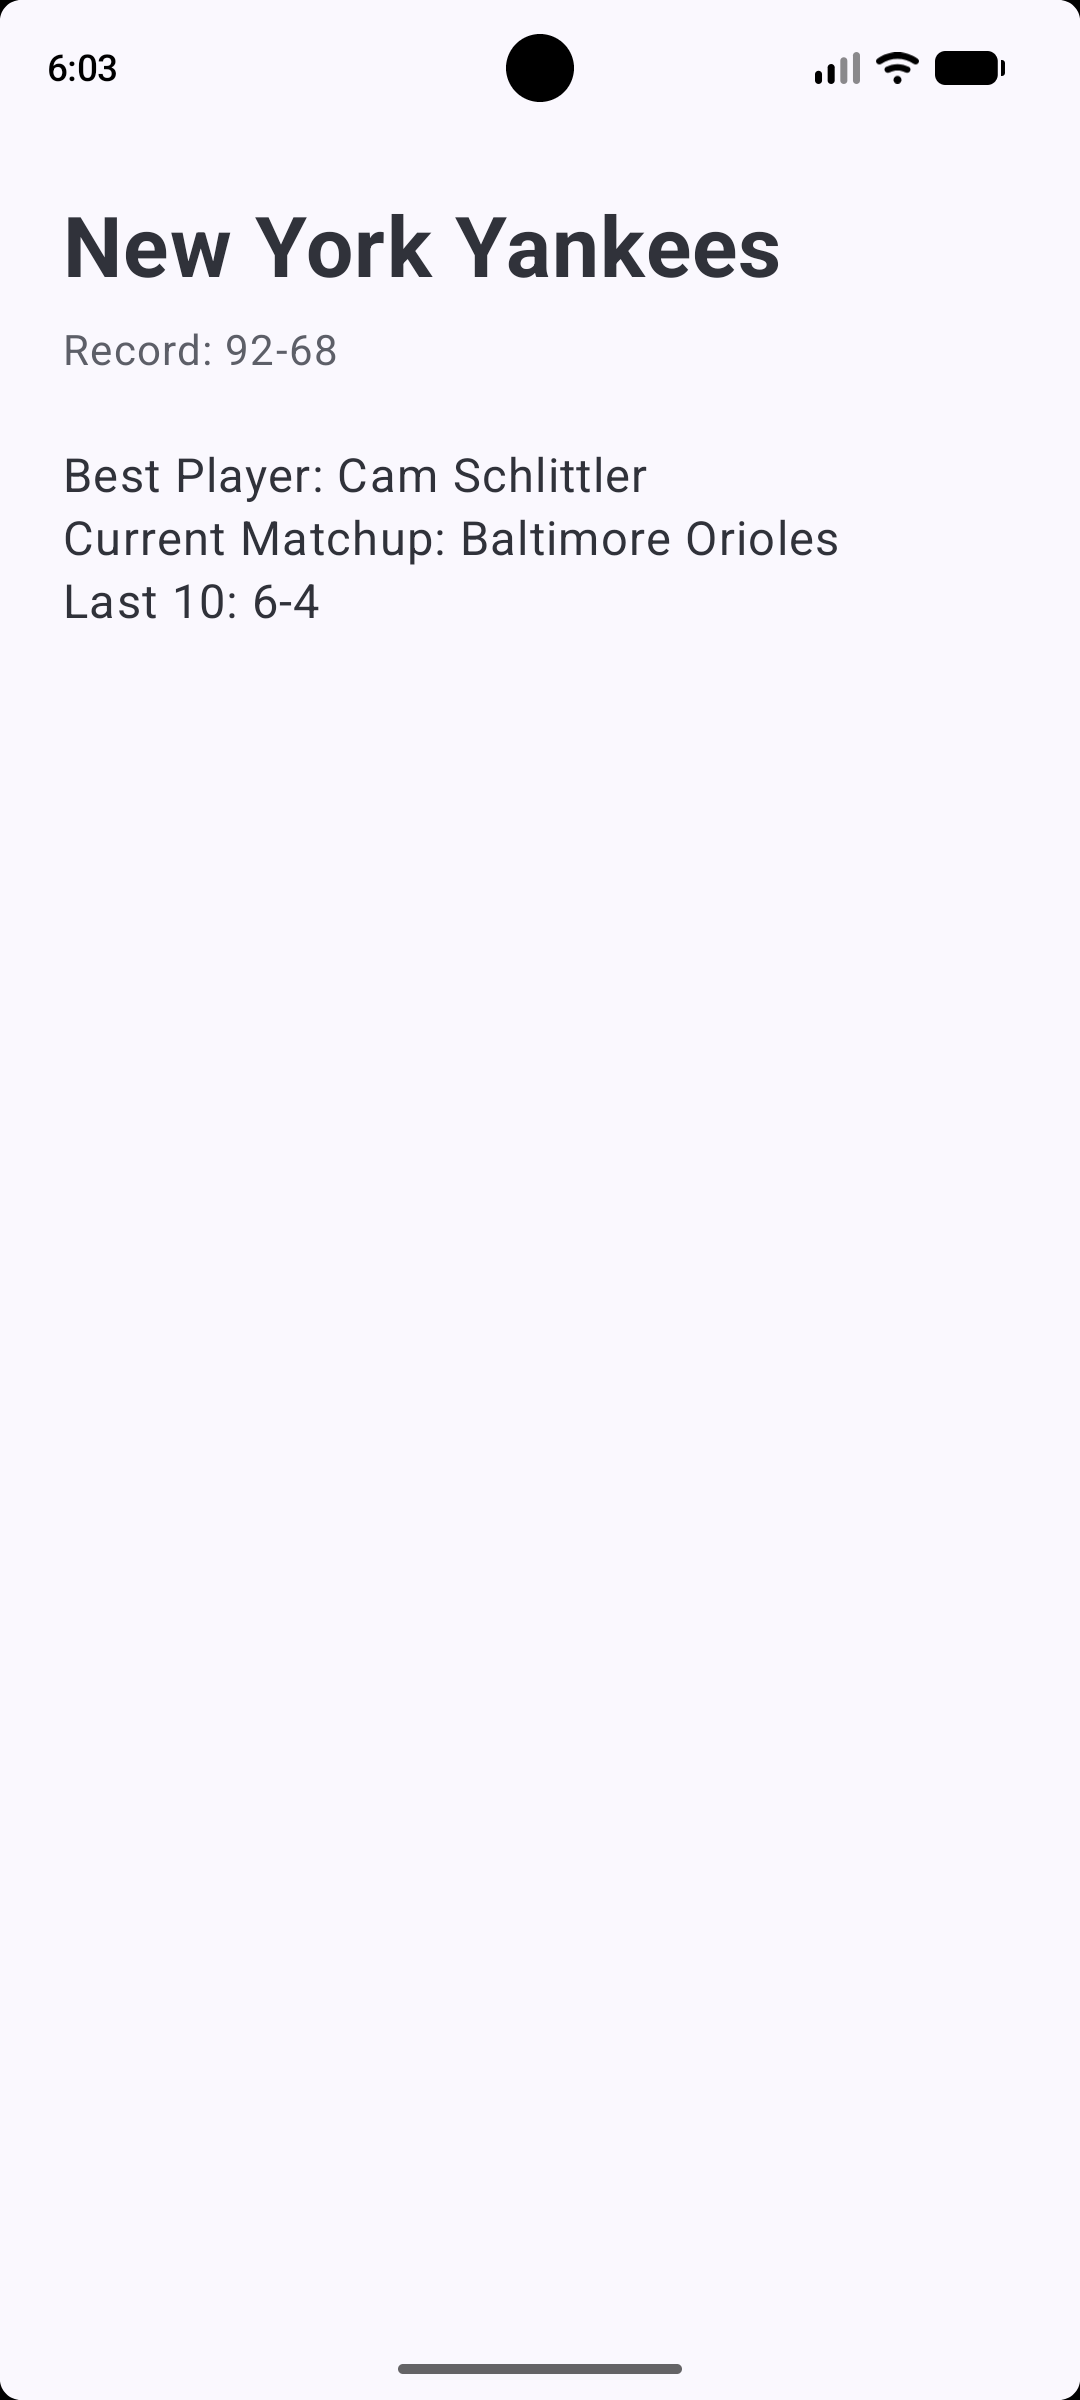
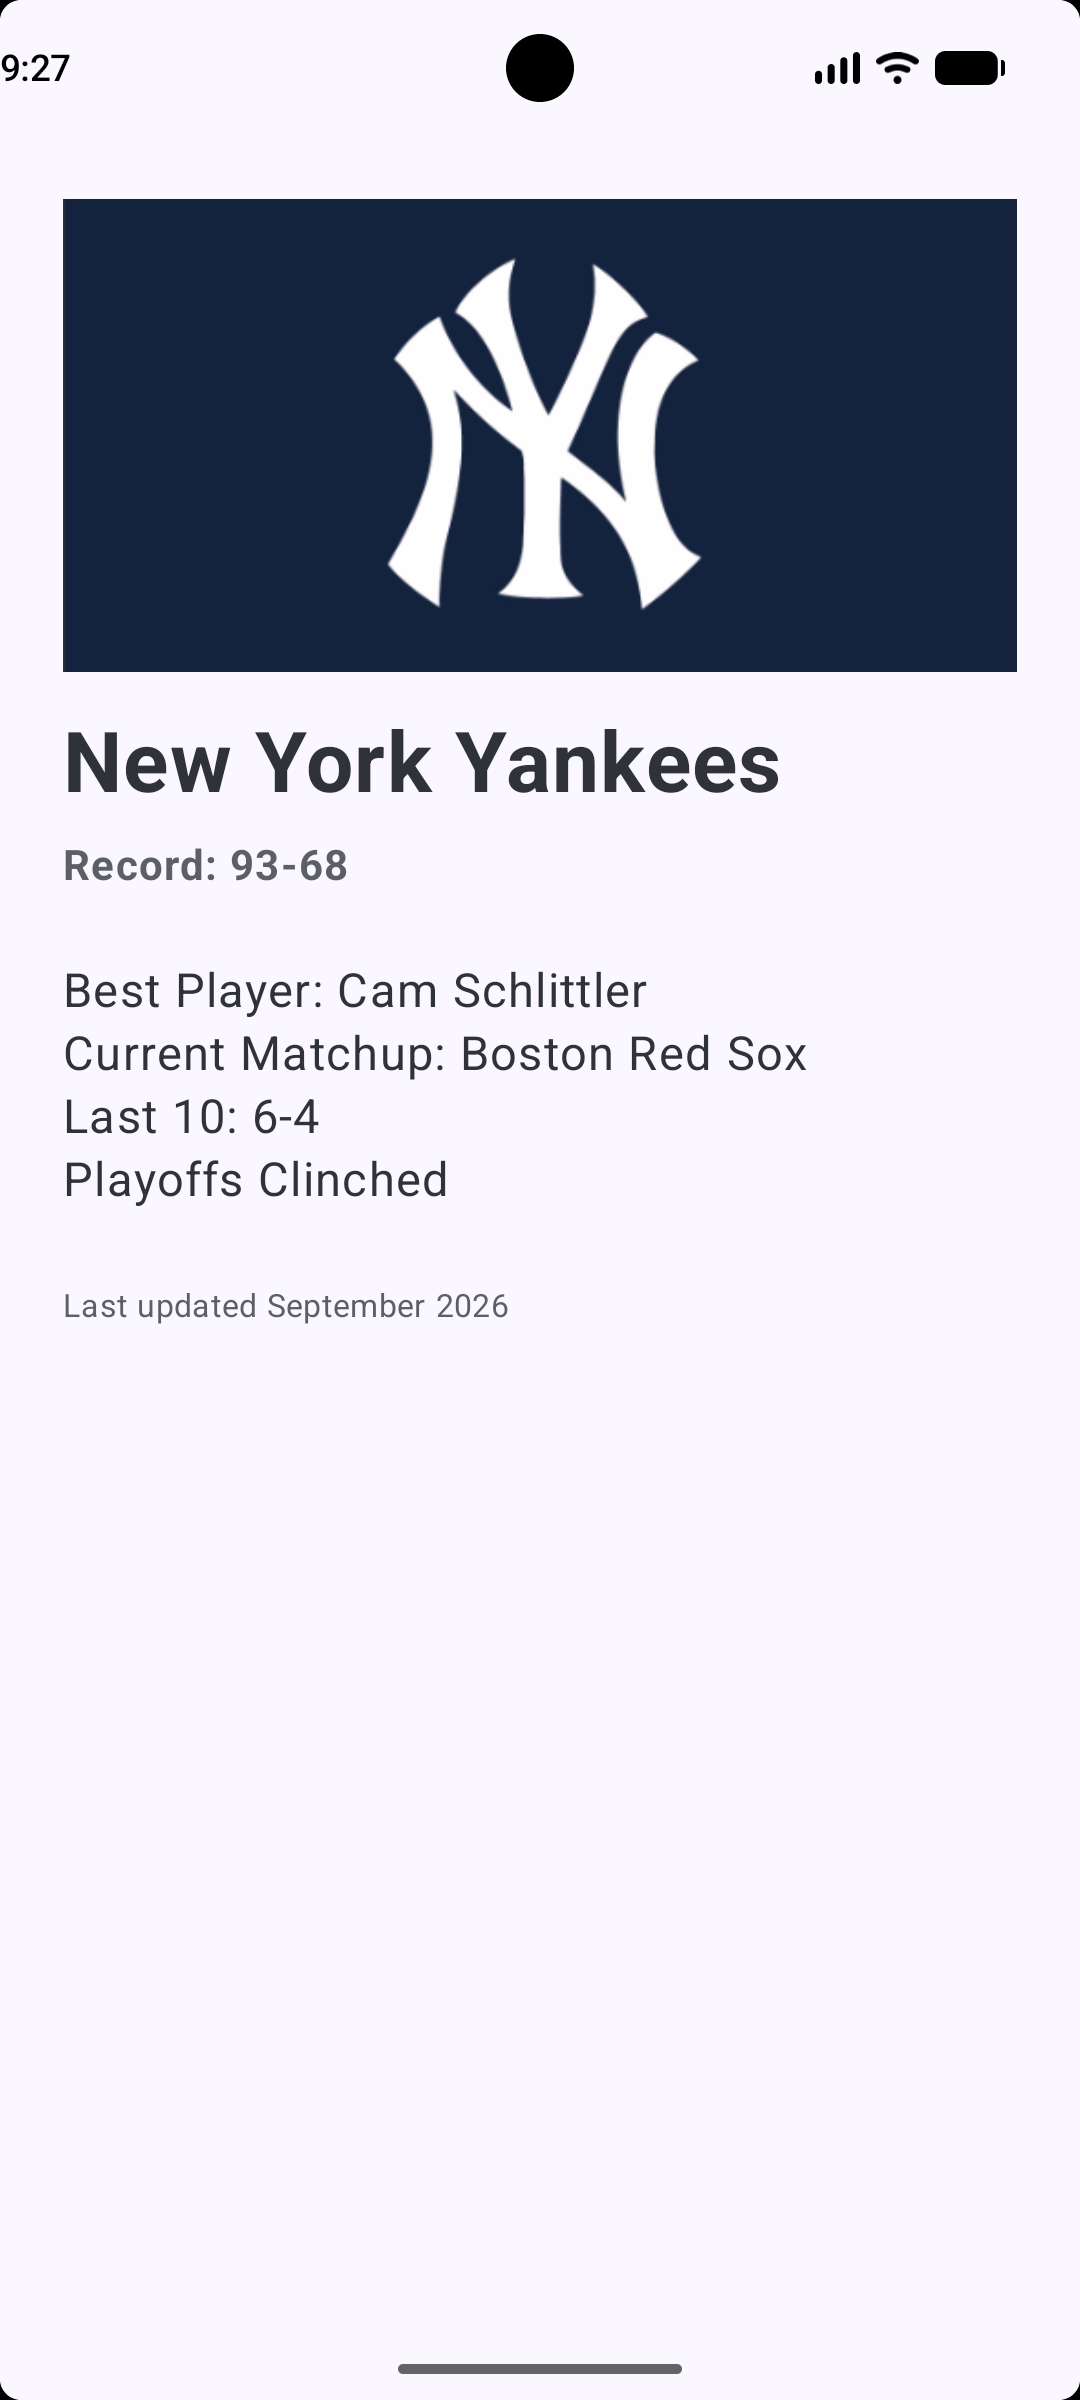
Week5 Fri Lab Done

diff --git a/app/src/main/java/edu/lemoyne/campusapp/MainActivity.kt b/app/src/main/java/edu/lemoyne/campusapp/MainActivity.kt
@@ -1,9 +1,11 @@
 package edu.lemoyne.campusapp
 
+import android.content.res.Configuration
 import android.os.Bundle
 import androidx.activity.ComponentActivity
 import androidx.activity.compose.setContent
 import androidx.activity.enableEdgeToEdge
+import androidx.compose.foundation.Image
 import androidx.compose.foundation.layout.Column
 import androidx.compose.foundation.layout.Spacer
 import androidx.compose.foundation.layout.fillMaxSize
@@ -13,13 +15,18 @@ import androidx.compose.foundation.layout.padding
 import androidx.compose.foundation.layout.paddingFrom
 import androidx.compose.material3.MaterialTheme
 import androidx.compose.material3.Scaffold
+import androidx.compose.material3.Surface
 import androidx.compose.material3.Text
 import androidx.compose.runtime.Composable
 import androidx.compose.ui.Modifier
+import androidx.compose.ui.graphics.Color
+import androidx.compose.ui.layout.ContentScale
+import androidx.compose.ui.res.painterResource
 import androidx.compose.ui.text.font.FontWeight
 import androidx.compose.ui.tooling.preview.Preview
 import androidx.compose.ui.unit.dp
 import androidx.compose.ui.unit.sp
+import androidx.core.content.pm.ShortcutInfoCompat
 import edu.lemoyne.campusapp.ui.theme.CampusAppTheme
 
 class MainActivity : ComponentActivity() {
@@ -33,6 +40,7 @@ class MainActivity : ComponentActivity() {
                 }
             }
         }
+
     }
 }
 
@@ -46,6 +54,16 @@ fun HomeScreen(modifier: Modifier = Modifier) {
             .fillMaxWidth()
             .padding(all = 24.dp)
     ) {
+        // --- Lab 6 · Task 3: a picture of my own ---
+        Image(
+            painter = painterResource(id = R.drawable.yankees),
+            contentDescription = "New York Yankees Logo",
+            contentScale = ContentScale.Crop,
+            modifier = Modifier
+                .fillMaxWidth()
+                .height(180.dp)
+        )
+        Spacer(modifier = Modifier.height(16.dp))
         // --- Class 6: Step 4: Real styling ---
         Text(
             text = "New York Yankees",
@@ -56,16 +74,28 @@ fun HomeScreen(modifier: Modifier = Modifier) {
         Spacer(modifier = Modifier.height(8.dp))
 
         Text(
-            text = "Record: 92-68",
+            text = "Record: 93-68",
             fontSize = 16.sp,
+            // --- Lab 6 · Task 1: ... ---
+            fontWeight = FontWeight.Bold,
             color = MaterialTheme.colorScheme.onSurfaceVariant
         )
 
         Spacer(modifier = Modifier.height(24.dp))
 
         Text(text = "Best Player: Cam Schlittler", fontSize = 18.sp)
-        Text(text = "Current Matchup: Baltimore Orioles", fontSize = 18.sp)
+        Text(text = "Current Matchup: Boston Red Sox", fontSize = 18.sp)
         Text("Last 10: 6-4", fontSize = 18.sp)
+        // --- Lab 6 · Task 1: ... ---
+        Text("Playoffs Clinched", fontSize = 18.sp)
+
+        // --- Lab 6 · Task 2: footer ---
+        Spacer(modifier = Modifier.height(24.dp))
+        Text(
+            text = "Last updated September 2026",
+            fontSize = 12.sp,
+            color = MaterialTheme.colorScheme.onSurfaceVariant
+        )
     }
 }
 
@@ -74,5 +104,16 @@ fun HomeScreen(modifier: Modifier = Modifier) {
 fun HomeScreenPreview() {
     CampusAppTheme() {
         HomeScreen()
+    }
+}
+
+// --- Lab 6 · Task 4: dark mode preview ---
+@Preview(showBackground = true, uiMode = Configuration.UI_MODE_NIGHT_YES)
+@Composable
+fun HomeScreenDarkPreview() {
+    CampusAppTheme {
+        Surface {
+            HomeScreen()
+        }
     }
 }

diff --git a/notes.md b/notes.md
@@ -3,3 +3,7 @@
 2. The background of the app changed color on its own
 
 3. Most of the files in res are confusing and I don't understand them yet
+
+
+Week 5 Friday:
+    I changed .fillMaxWidth in Image to .fillMaxSize and the entire sreen was filled with the image.
